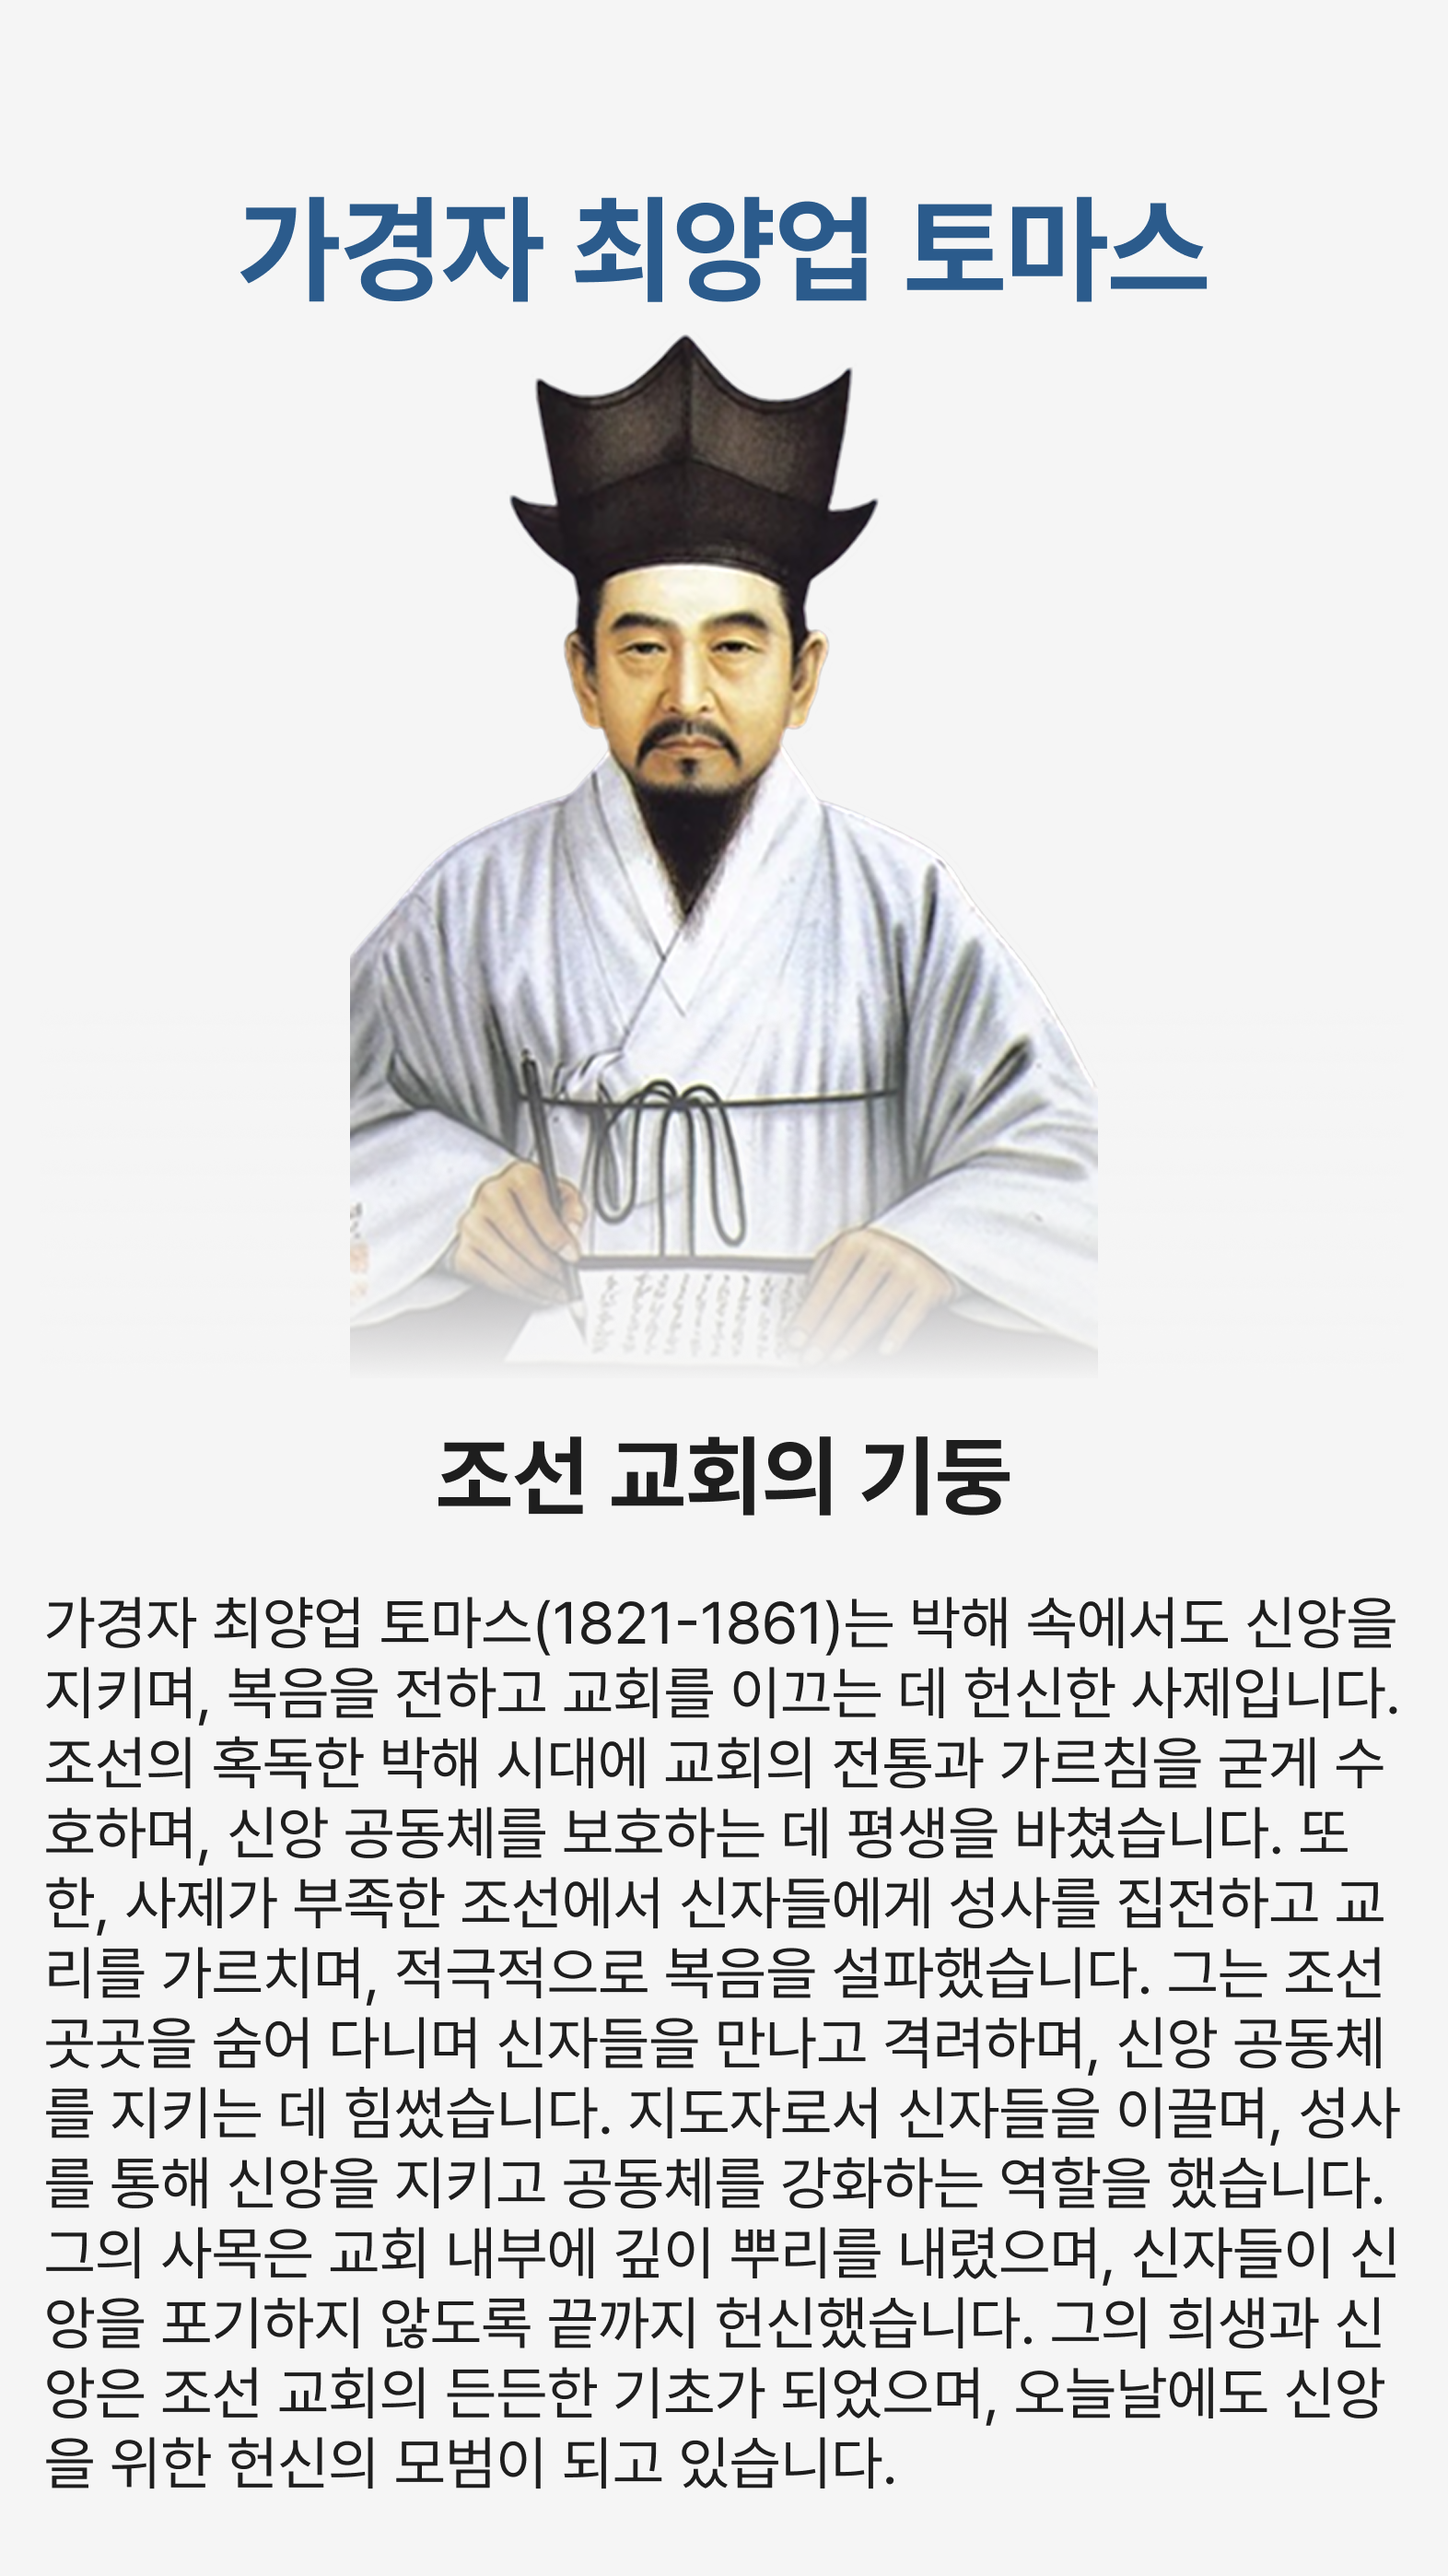
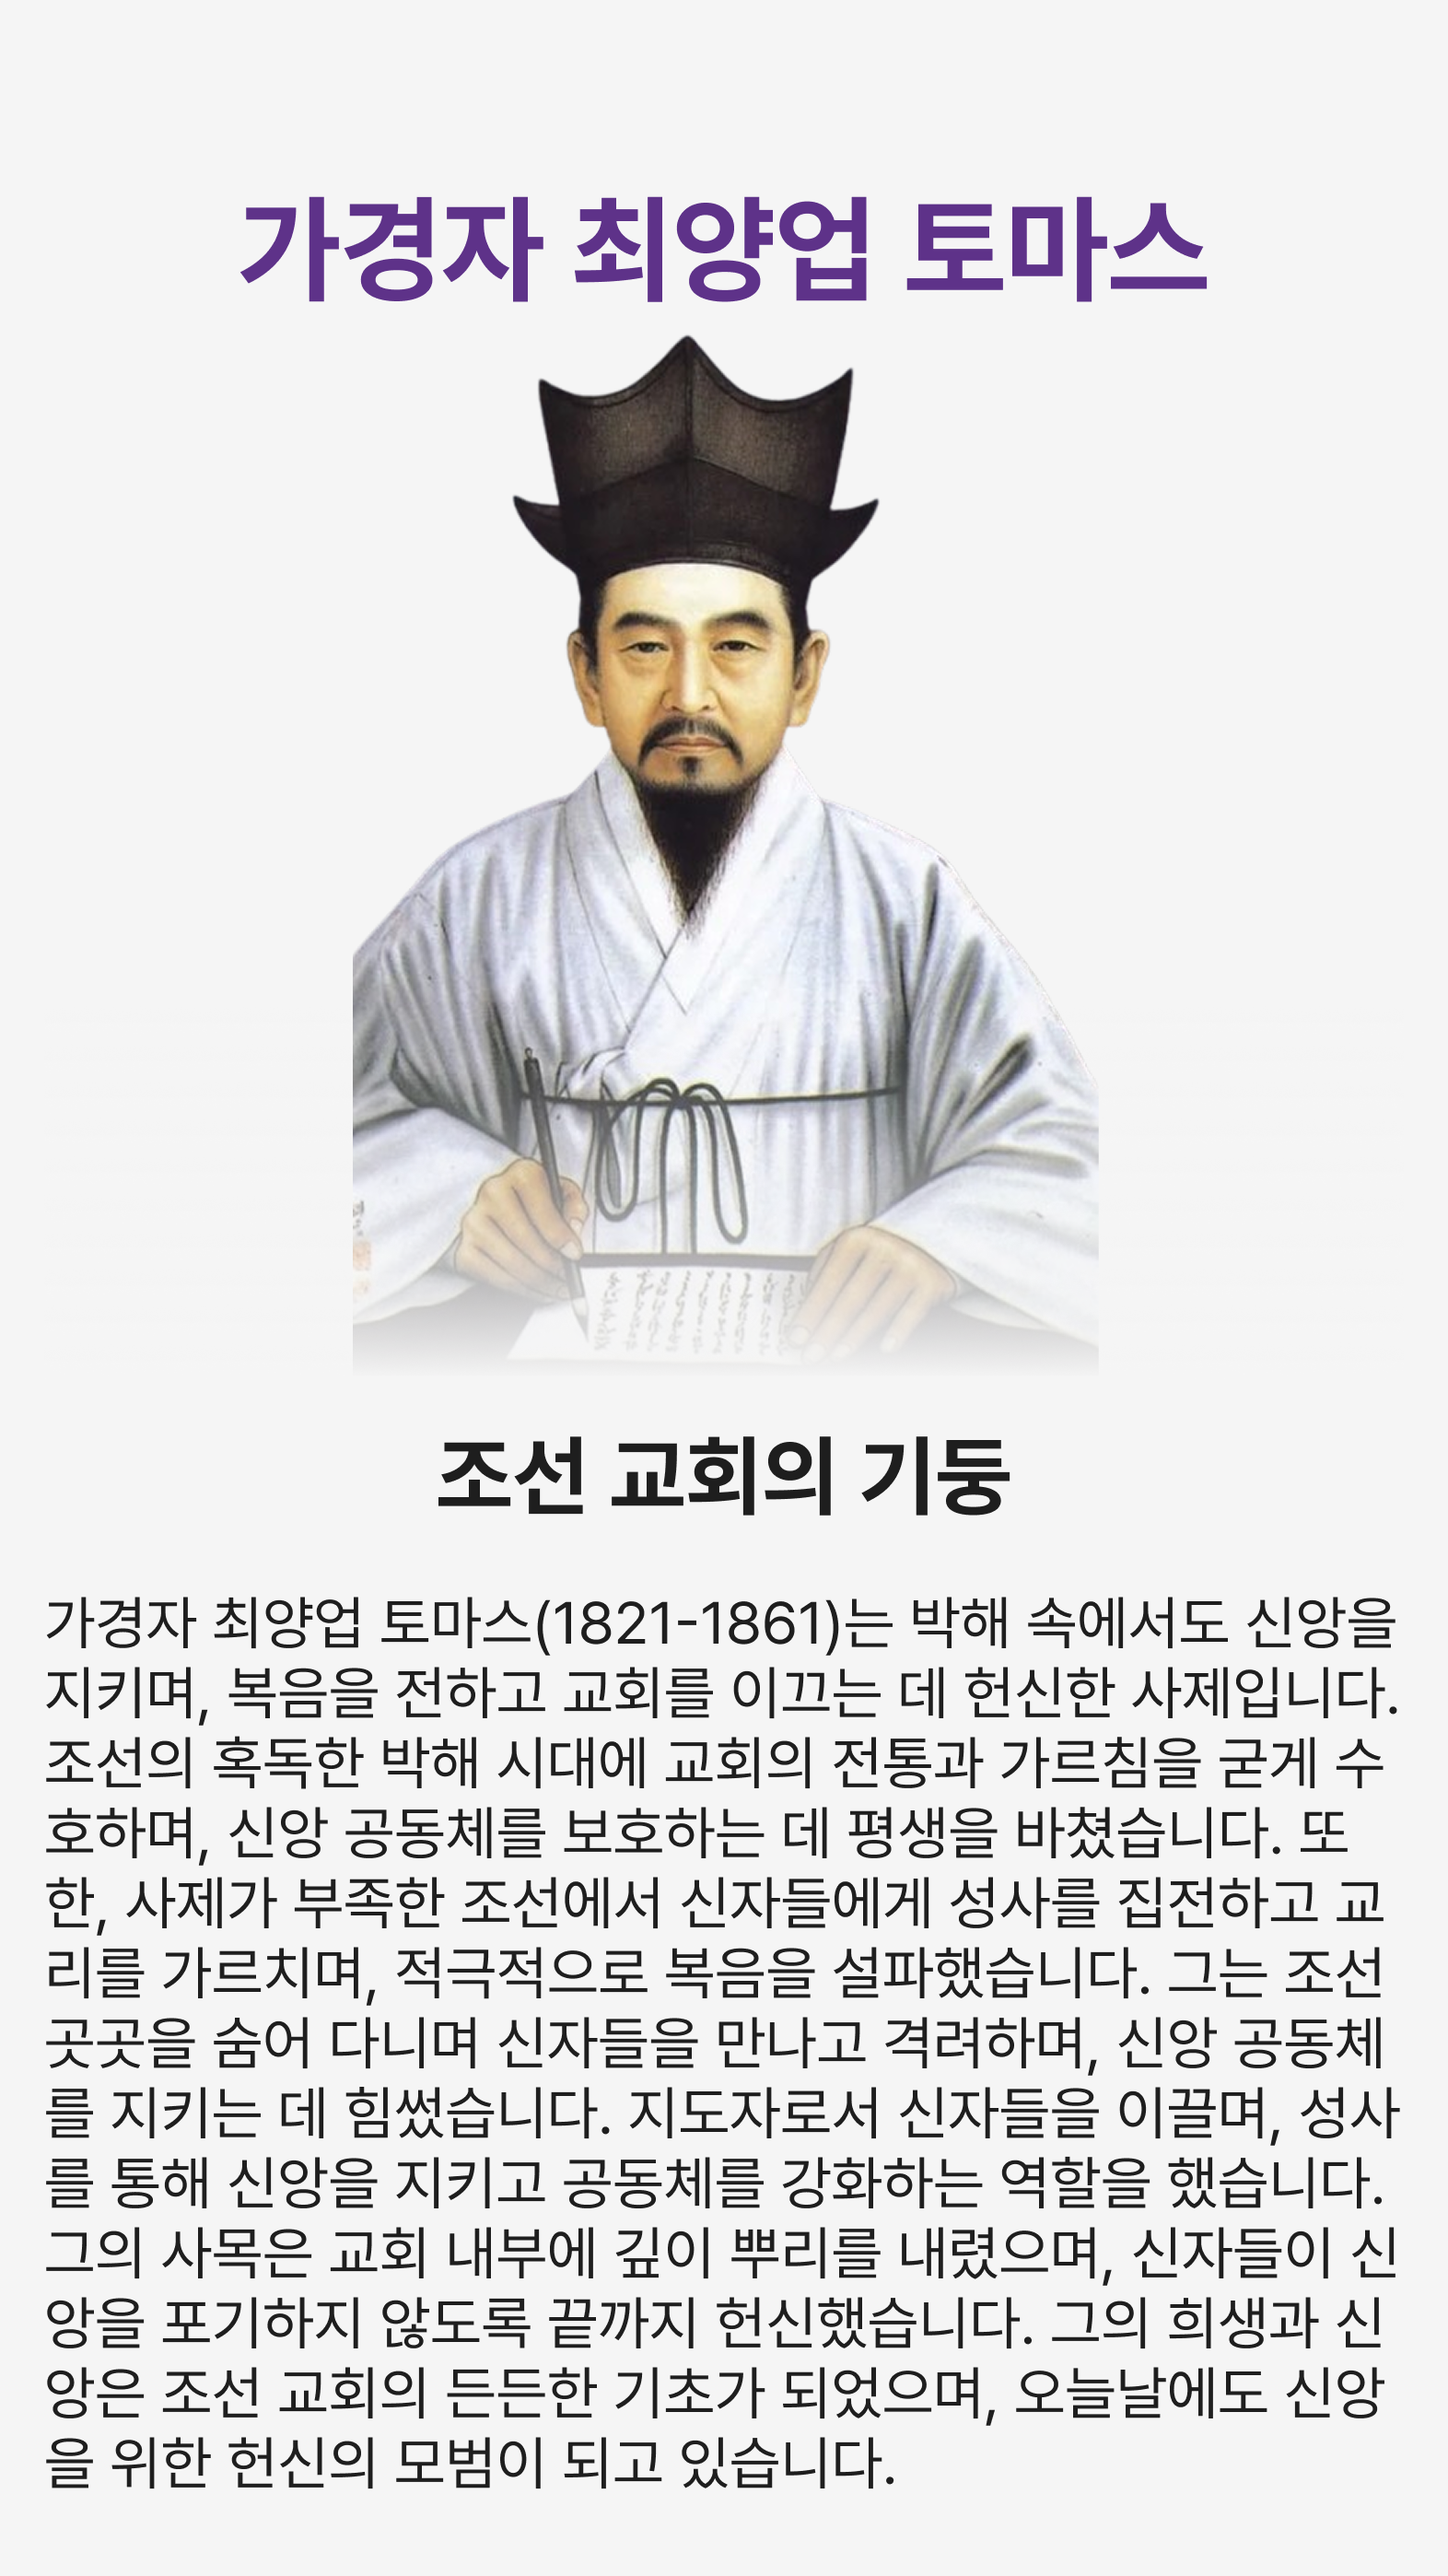
FIX: adjust cross position, adjust color

diff --git a/src/app/page.module.css b/src/app/page.module.css
@@ -6,7 +6,7 @@
 }
 
 .mainTitle {
-  margin-top: 10vh;
+  margin-top: 5vh;
   display: flex;
   flex-direction: column;
   justify-content: center;
@@ -29,19 +29,13 @@
   height: 14vh;
 }
 
-.catholicClub {
-  font-family: 'Pretendard-Thin';
-  font-size: 16px;
-  line-height: 19px;
-  color: #2B5B8C;
-}
 
 .cross {
-  margin-top: 6.34vh;
+  margin-top: 3.1vh;
   height: 36vh;
   object-fit: contain;
   width:auto;
-  margin-bottom: 6.34vh;
+  margin-bottom: 3.1vh;
 }
 
 .buttonSet {
